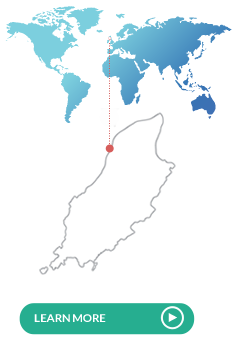
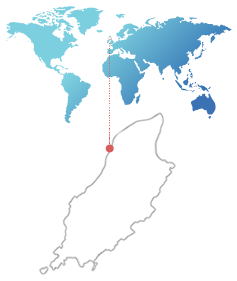
Fixed images a bit

diff --git a/src/css/screen.css b/src/css/screen.css
@@ -25,9 +25,12 @@ html {
 /* line 33, ../_sass/src/screen.sass */
 html body {
   background-color: white;
+  background-image: url("../img/assets/background.fw.png");
+  background-repeat: repeat;
+  background-position: left top;
   font-family: Lato, sans-serif;
 }
-/* line 36, ../_sass/src/screen.sass */
+/* line 39, ../_sass/src/screen.sass */
 html body .mainContentWrapper {
   outline: 1px dashed pink;
   background-color: white;
@@ -35,69 +38,73 @@ html body .mainContentWrapper {
   top: -80px;
   padding: 20px 10%;
 }
-/* line 42, ../_sass/src/screen.sass */
+/* line 45, ../_sass/src/screen.sass */
 html body .sidebarWrapper {
   outline: 1px dashed pink;
 }
-/* line 49, ../_sass/src/screen.sass */
+/* line 47, ../_sass/src/screen.sass */
+html body h1, html body h2 {
+  color: #5bbfdf;
+}
+/* line 54, ../_sass/src/screen.sass */
 html .header .logo {
   margin-bottom: 15px;
 }
-/* line 51, ../_sass/src/screen.sass */
+/* line 56, ../_sass/src/screen.sass */
 html .header nav.navbar {
   background-color: black;
   border-radius: 0;
   border: none;
   margin-bottom: 0;
 }
-/* line 56, ../_sass/src/screen.sass */
+/* line 61, ../_sass/src/screen.sass */
 html .header nav.navbar ul {
   margin: 0;
 }
-/* line 58, ../_sass/src/screen.sass */
+/* line 63, ../_sass/src/screen.sass */
 html .header nav.navbar li {
   border-top-style: solid;
   border-width: 3px;
 }
-/* line 61, ../_sass/src/screen.sass */
+/* line 66, ../_sass/src/screen.sass */
 html .header nav.navbar li a {
   color: white;
   font-weight: bold;
   text-transform: uppercase;
 }
-/* line 65, ../_sass/src/screen.sass */
+/* line 70, ../_sass/src/screen.sass */
 html .header nav.navbar li:hover {
   background-color: #42474d;
 }
-/* line 67, ../_sass/src/screen.sass */
+/* line 72, ../_sass/src/screen.sass */
 html .header nav.navbar li:hover a {
   color: white;
 }
-/* line 69, ../_sass/src/screen.sass */
+/* line 74, ../_sass/src/screen.sass */
 html .header nav.navbar li.nav1 {
   border-color: #5bbfdf;
 }
-/* line 71, ../_sass/src/screen.sass */
+/* line 76, ../_sass/src/screen.sass */
 html .header nav.navbar li.nav2 {
   border-color: #c2529e;
 }
-/* line 73, ../_sass/src/screen.sass */
+/* line 78, ../_sass/src/screen.sass */
 html .header nav.navbar li.nav3 {
   border-color: #ea1d24;
 }
-/* line 75, ../_sass/src/screen.sass */
+/* line 80, ../_sass/src/screen.sass */
 html .header nav.navbar li.nav4 {
   border-color: #92c64a;
 }
-/* line 77, ../_sass/src/screen.sass */
+/* line 82, ../_sass/src/screen.sass */
 html .header nav.navbar li.nav5 {
   border-color: #edc815;
 }
-/* line 79, ../_sass/src/screen.sass */
+/* line 84, ../_sass/src/screen.sass */
 html .header nav.navbar li.nav6 {
   border-color: #fd73fc;
 }
-/* line 84, ../_sass/src/screen.sass */
+/* line 89, ../_sass/src/screen.sass */
 html .homeBanner {
   background-image: url("../img/banners/HomeBanner11920x450.jpg");
   background-position: center;

diff --git a/src/_sass/src/screen.sass b/src/_sass/src/screen.sass
@@ -32,6 +32,9 @@ $lightgrey: #e0e0e0
 html
 	body
 		background-color: white
+		background-image: url('../img/assets/background.fw.png')
+		background-repeat: repeat
+		background-position: left top
 		font-family: Lato, sans-serif
 		.mainContentWrapper
 			outline: 1px dashed pink
@@ -41,6 +44,8 @@ html
 			padding: 20px 10%
 		.sidebarWrapper
 			outline: 1px dashed pink
+		h1, h2
+			color: $cyan
 	/**
 	 * Site Header
 	 * common to all pages

diff --git a/src/_layouts/default.html b/src/_layouts/default.html
@@ -23,8 +23,10 @@
 				<!-- sidebar area -->
 				<div class="col-md-4 col-md-pull-8">
 					<div class="sidebarWrapper">
-						<div class="isleOfManMap">MAP GOES HERE</div>
-						<img src="/img/IOM_Map.jpg" />
+						<h2>Why the Isle of Man?</h2>
+						<div class="isleOfManMap">
+						<img src="/img/MAP.fw.png" />
+						</div>
 					</div>
 				</div>
 				
